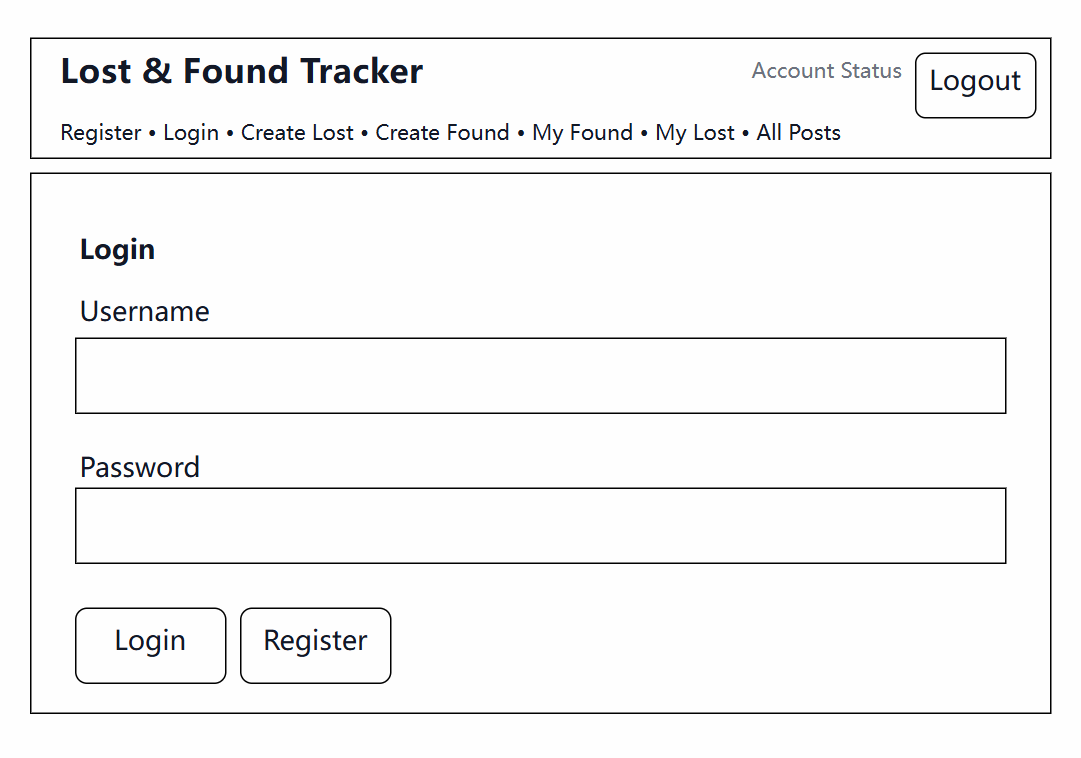
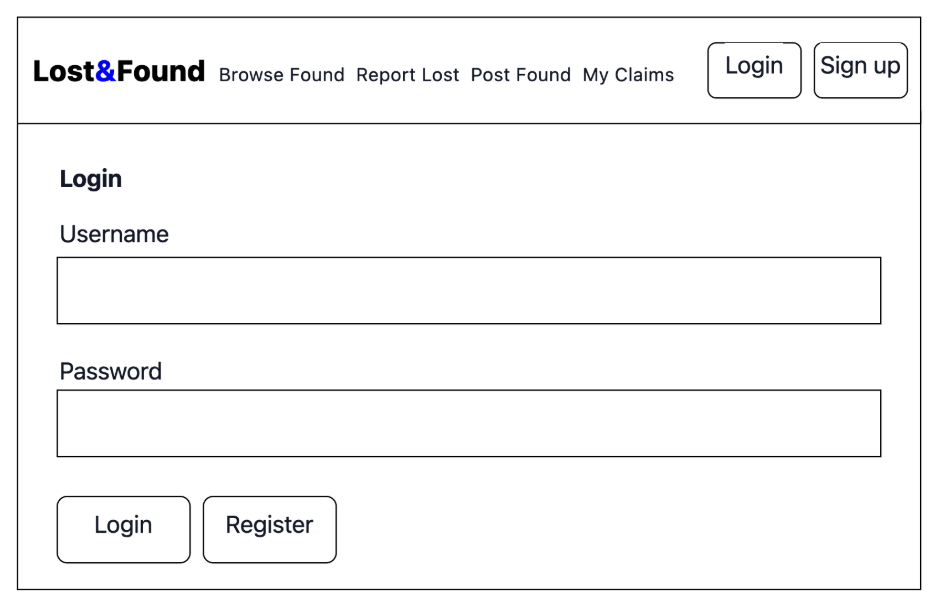
Update design mockups

Changed region(s): [[0.0, 0.0, 0.9789, 1.0], [0.0612, 0.2812, 0.153, 0.3438]]

diff --git a/design.md b/design.md
@@ -28,7 +28,7 @@ Lost & Found Tracker is a web app for reporting and finding lost items on campus
 ## Design Mockups:
 
 ### Welcome page
-![Screenshot](./images/design_welcome.png)
+![Screenshot](./images/design_home.png)
 
 ### Register page
 ![Screenshot](./images/design_register.png)
